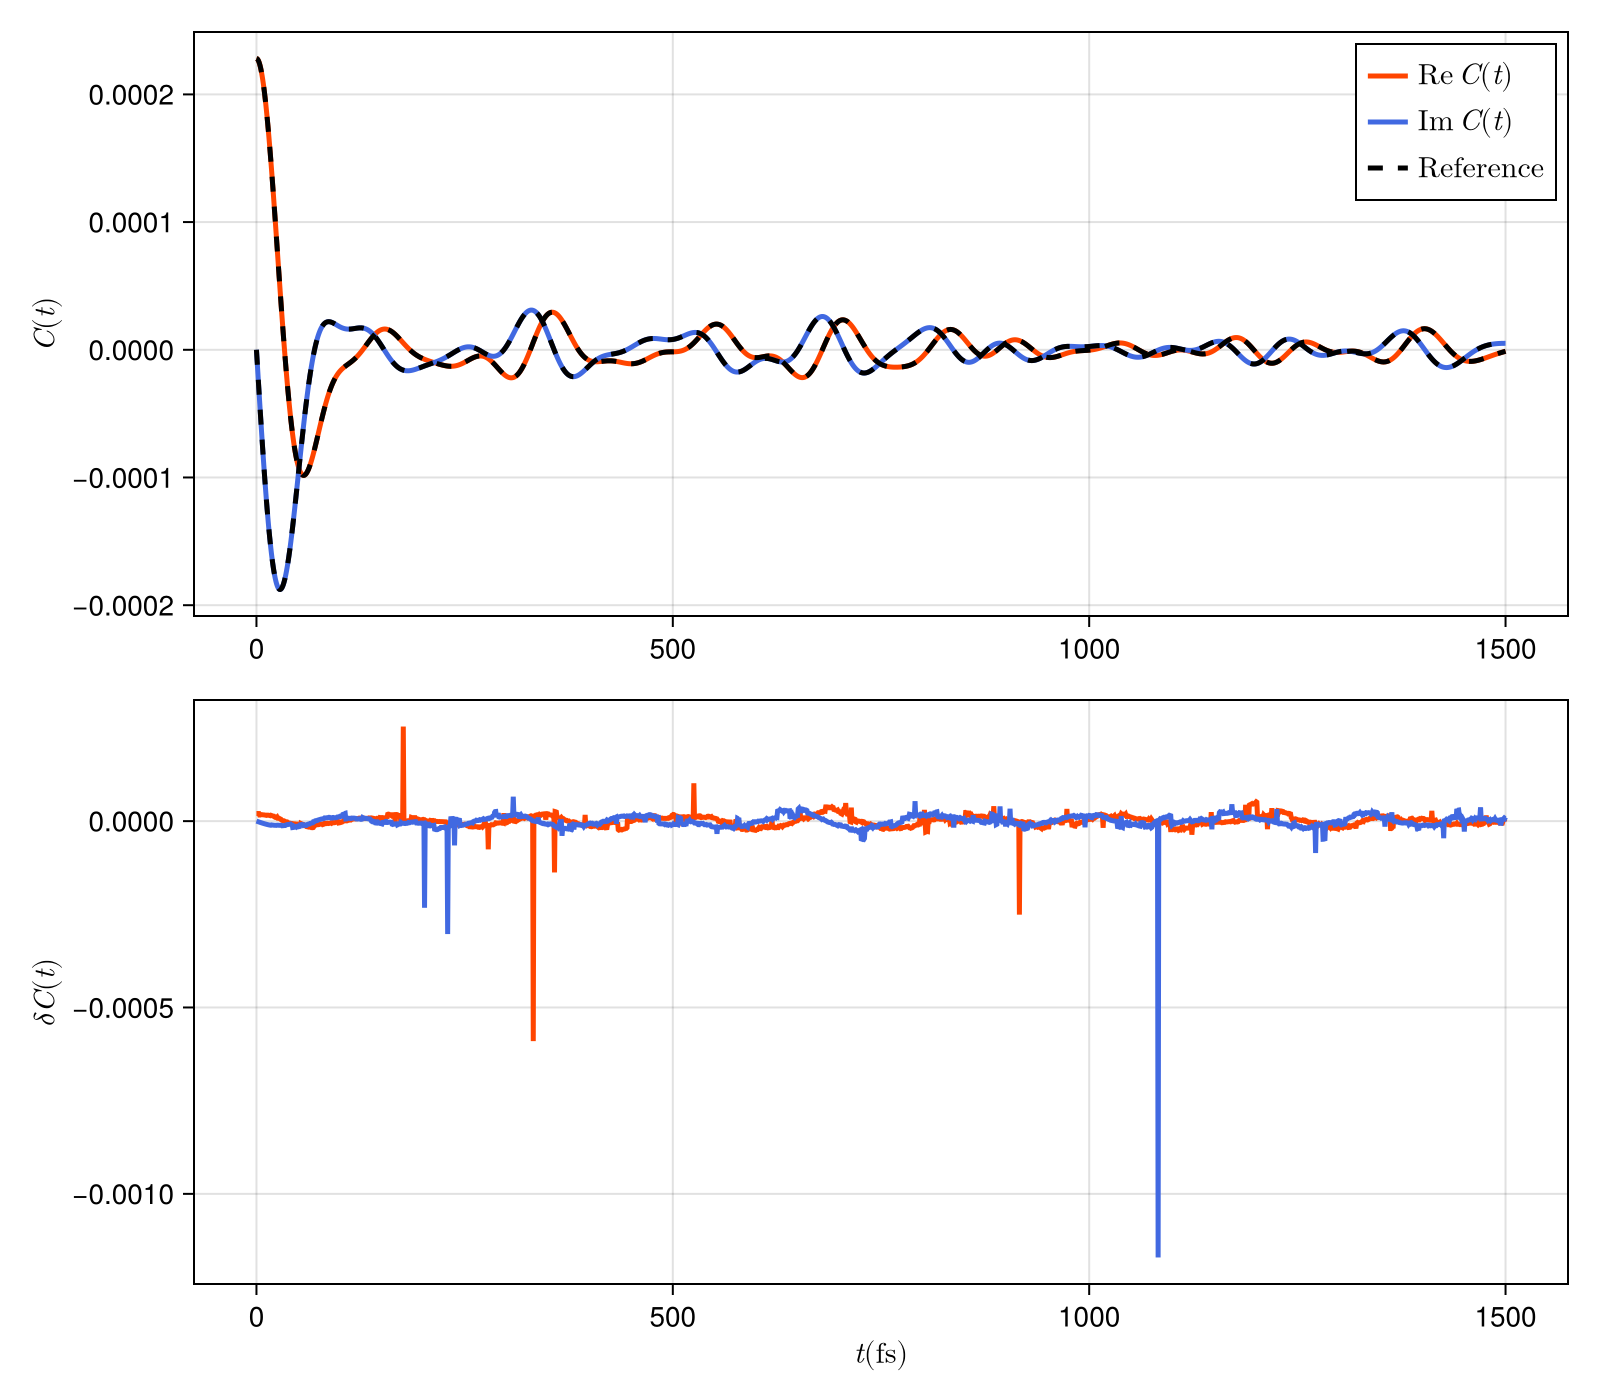
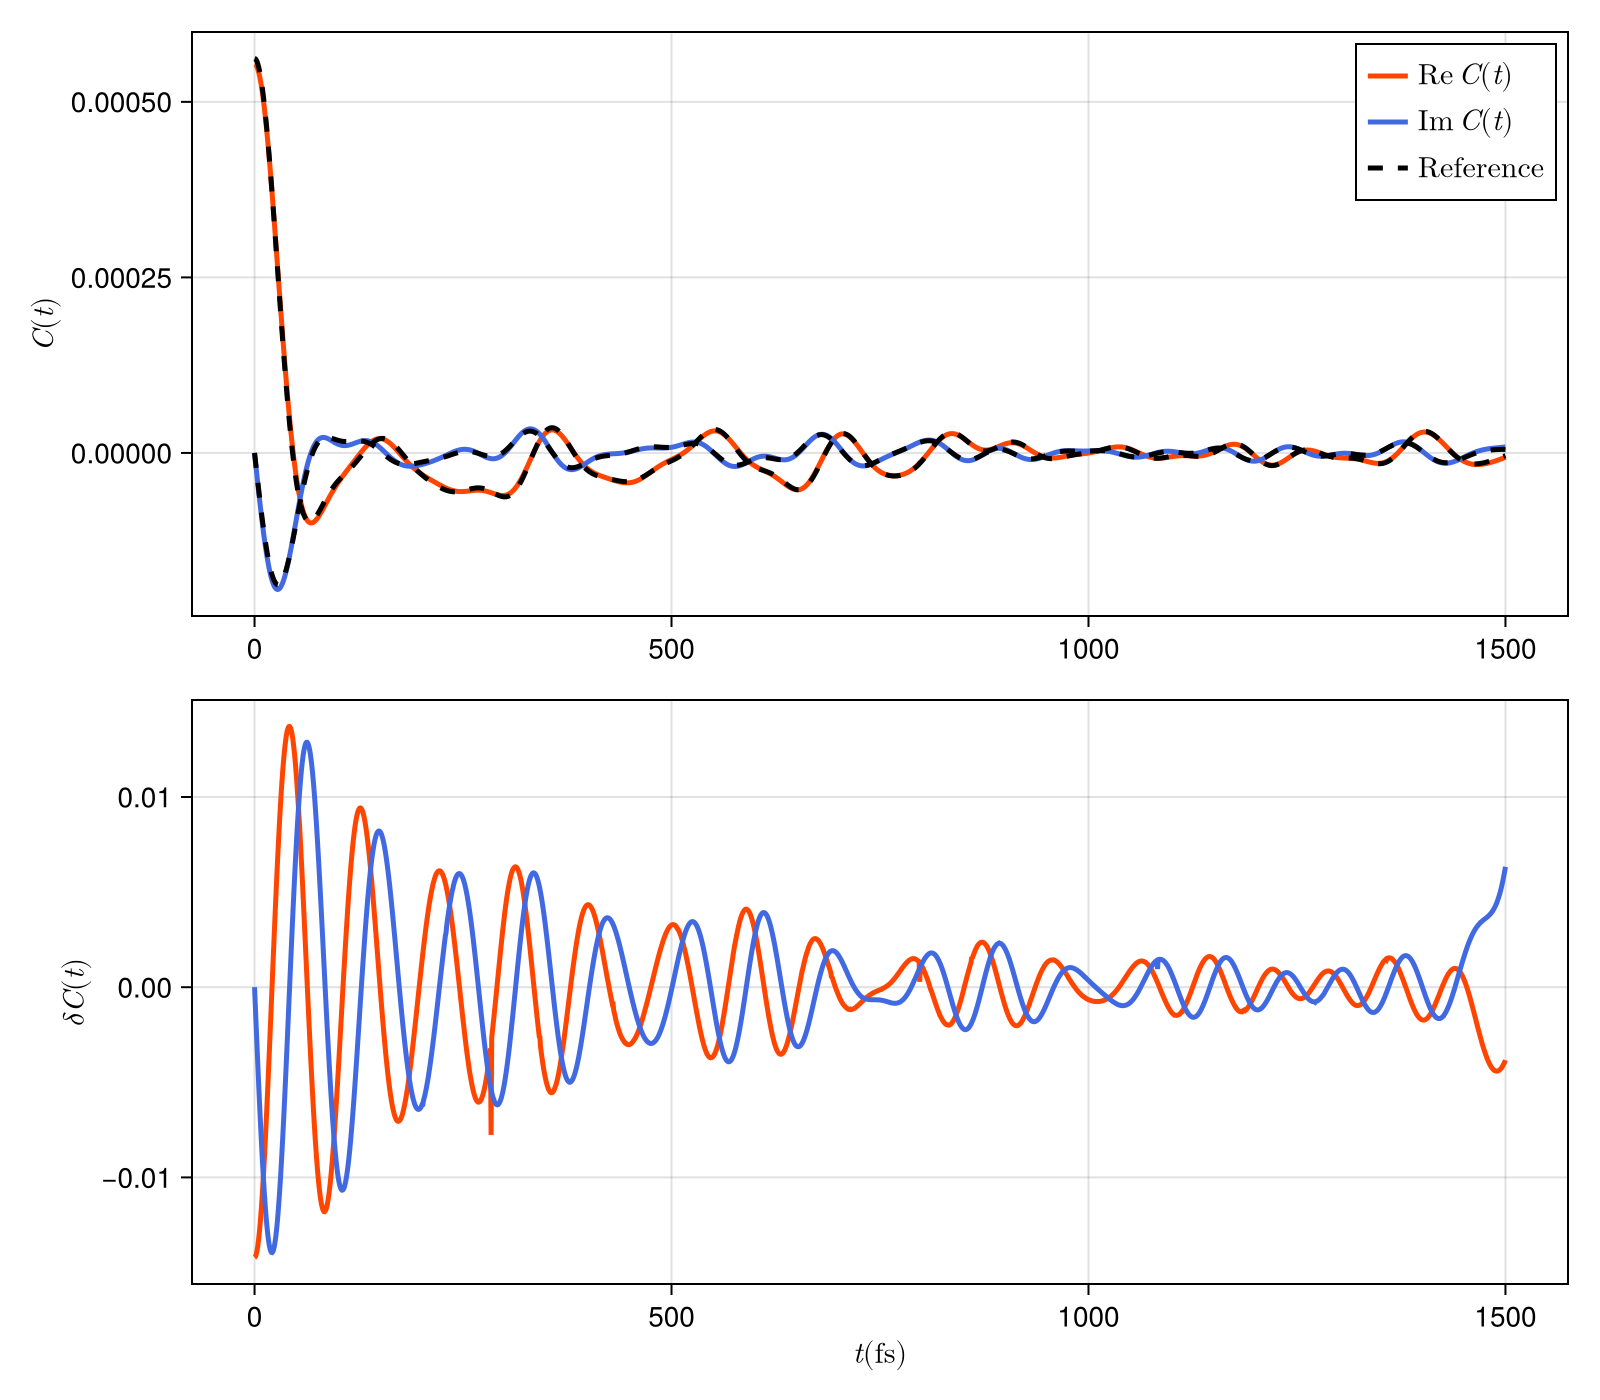
update examples

diff --git a/README.md b/README.md
@@ -9,7 +9,7 @@ QFiND (Quantum Finite-temperature Noise Discretizer and Decomposer) provides rou
 
 $$
 \begin{aligned}
-C(t)&=\frac{1}{4} \int_{-\infty}^{\infty} \mathrm{d}\omega J(\omega)\left[\mathrm{coth}\left(\frac{\beta \omega}{2}\right)+1\right] \mathrm{e}^{-i \omega t}\\
+C(t)&=\frac{1}{2\pi} \int_{-\infty}^{\infty} \mathrm{d}\omega J(\omega)\left[\mathrm{coth}\left(\frac{\beta \omega}{2}\right)+1\right] \mathrm{e}^{-i \omega t}\\
 &\approx \sum_{k=1}^M g_k^2 \mathrm{e}^{-i\omega_k t}
 \end{aligned}
 $$
@@ -28,7 +28,7 @@ See `./examples`.
 ## Cite `QFiND`
 If you find the framework useful in your research, we would be grateful if you could cite our publications:
 - H. Takahashi and R. Borrelli, J. Chem. Phys. 161, 151101 (2024). (https://doi.org/10.1063/5.0232232) 
-- H. Takahashi and R. Borrelli, arXiv:2412.13793. (https://doi.org/10.48550/arXiv.2412.13793)
+- H. Takahashi and R. Borrelli, J. Chem. Theory Comput. 21, 2206–2218 (2025). (https://doi.org/10.1021/acs.jctc.4c01728)
 
 Here are the bibtex entries:
 ```bib
@@ -45,19 +45,21 @@ Here are the bibtex entries:
   doi = {10.1063/5.0232232}
 }
 
-@misc{TakahashiBorrelli2024a,
+@article{TakahashiBorrelli2025JCTC,
   title = {Discretization of {{Structured Bosonic Environments}} at {{Finite Temperature}} by {{Interpolative Decomposition}}: {{Theory}} and {{Application}}},
   shorttitle = {Discretization of {{Structured Bosonic Environments}} at {{Finite Temperature}} by {{Interpolative Decomposition}}},
   author = {Takahashi, Hideaki and Borrelli, Raffaele},
-  year = {2024},
-  month = dec,
-  number = {arXiv:2412.13793},
-  eprint = {2412.13793},
-  primaryclass = {quant-ph},
-  publisher = {arXiv},
-  doi = {10.48550/arXiv.2412.13793},
-  archiveprefix = {arXiv}
+  year = {2025},
+  month = mar,
+  journal = {Journal of Chemical Theory and Computation},
+  volume = {21},
+  number = {5},
+  pages = {2206--2218},
+  publisher = {American Chemical Society},
+  issn = {1549-9618},
+  doi = {10.1021/acs.jctc.4c01728}
 }
+
 ```
 
 

diff --git a/docs/src/index.md b/docs/src/index.md
@@ -1,14 +1,17 @@
 ```@meta
-CurrentModule = QFiND
+CurrentModule = ExpFit
 ```
 
-# QFiND
+# ExpFit.jl
 
-Documentation for [QFiND](https://github.com/htkhsh/QFiND.jl).
+[ExpFit.jl](https://github.com/DOC-Package/ExpFit.jl) is a Julia package that provides methods and algorithms for fitting functions or discrete data with a sum of exponentials and for reducing the order of a sum of exponentials.
 
-```@index
-```
+## Index
 
-```@autodocs
-Modules = [QFiND]
-```
+- [Exponential Fitting](@ref)
+- [Exponential Model Reduction](@ref)
+- [Reference](@ref)
+
+
+
+
